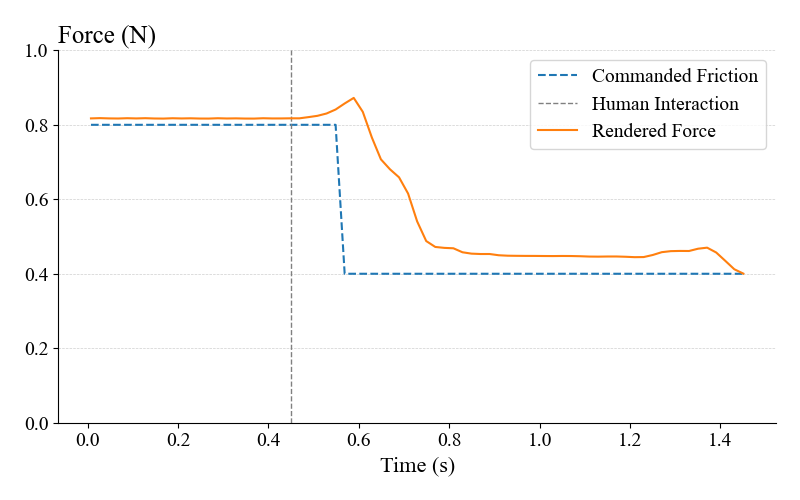
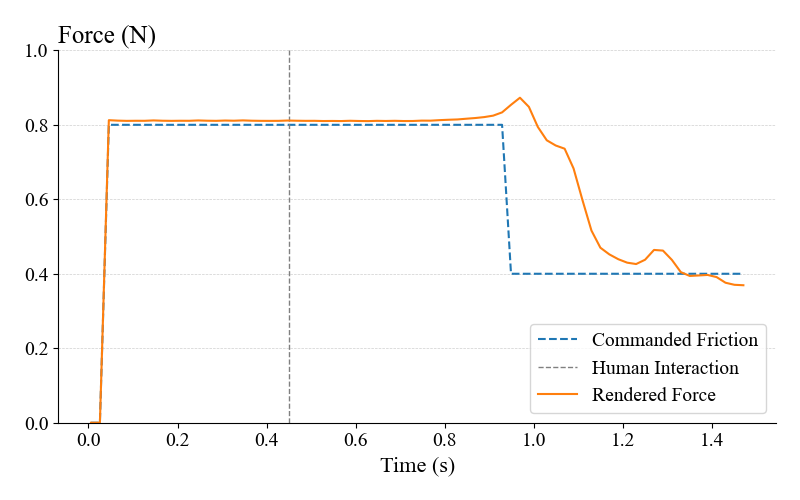
update

diff --git a/friction_render.py b/friction_render.py
@@ -158,7 +158,7 @@ try:
                 if sliding:
                     pid_enhance = pid_enhance + max(np.tanh(abs(positionChange)), 0.12)
                 if external_velocity > delta_v:
-                    pid_enhance = pid_enhance + np.tanh(abs(external_velocity/50))
+                    pid_enhance = pid_enhance + np.tanh(abs(external_velocity/40))
 
             pid_scale_factor += pid_enhance
 
